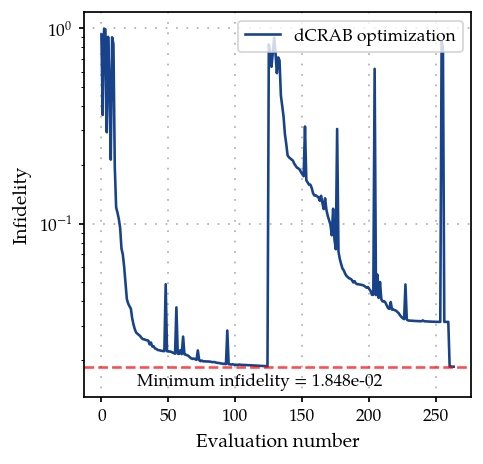
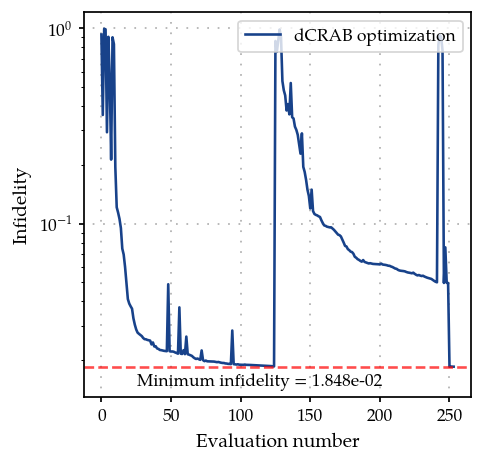
Fixed docs Example 08C

diff --git a/docs/notebooks/08C_Bosonic_grape_with_smooth_pulses.rst b/docs/notebooks/08C_Bosonic_grape_with_smooth_pulses.rst
@@ -390,7 +390,7 @@ can later use to plot the infidelity vs function evaluation.
 
 .. parsed-literal::
 
-    Logging directory = /tmp/tmpegrxx8m4
+    Logging directory = /tmp/tmp1qve13ga
 
 
 .. code:: ipython3
@@ -434,18 +434,18 @@ can later use to plot the infidelity vs function evaluation.
     ==== Starting super-iteration 1 ====
     *** Current lowest infidelity =  0.019 ***
     * Current no. of parameters = 50
-    Iteration number = 100 	  Infidelity  = 7.398e-01
-    Iteration number = 120 	  Infidelity  = 1.667e-01
-    Iteration number = 140 	  Infidelity  = 5.887e-02
-    Iteration number = 160 	  Infidelity  = 4.302e-02
-    Iteration number = 180 	  Infidelity  = 3.177e-02
+    Iteration number = 100 	  Infidelity  = 7.586e-01
+    Iteration number = 120 	  Infidelity  = 1.109e-01
+    Iteration number = 140 	  Infidelity  = 7.685e-02
+    Iteration number = 160 	  Infidelity  = 6.197e-02
+    Iteration number = 180 	  Infidelity  = 5.651e-02
     
     
     ==== Max iteration before a super-iteration reached ====
     ==== Starting super-iteration 2 ====
     *** Current lowest infidelity =  0.019 ***
     * Current no. of parameters = 74
-    Iteration number = 200 	  Infidelity  = 7.937e-01
+    Iteration number = 200 	  Infidelity  = 7.714e-01
 
 
 .. parsed-literal::
@@ -835,17 +835,18 @@ Redefine the optmap and the optmizer and rerun the optimization
 
 .. parsed-literal::
 
-    Logging directory = /tmp/tmp154t4gmo
+    Logging directory = /tmp/tmppoaajj37
 
 
 .. parsed-literal::
 
-    Implicitly cleaning up <TemporaryDirectory '/tmp/tmpegrxx8m4'>
+    Implicitly cleaning up <TemporaryDirectory '/tmp/tmp1qve13ga'>
 
 
 .. code:: ipython3
 
     opt.optimise()
+    opt.set_parameters(opt.best_params)
 
 
 .. parsed-literal::
@@ -987,21 +988,6 @@ Redefine the optmap and the optmizer and rerun the optimization
 .. parsed-literal::
 
     Setting parameters to the best values.
-
-
-
-
-.. parsed-literal::
-
-    {'status': 2, 'value': 0.03317484131350723, 'iterations': 70, 'message': '`callback` raised `StopIteration`.'}
-
-
-
-Set parameters to current best values
-
-.. code:: ipython3
-
-    opt.set_parameters(opt.best_params)
 
 
 
@@ -1157,28 +1143,6 @@ Set parameters to current best values
 
 
 
-And plot the optimised pulses and dyanmics
-
-.. code:: ipython3
-
-    plot_states_and_fock_number()
-
-
-
-.. image:: 08C_Bosonic_grape_with_smooth_pulses_files/08C_Bosonic_grape_with_smooth_pulses_49_0.png
-
-
-Also, verifying the dynamics with the higher truncation
-
-.. code:: ipython3
-
-    plot_states_and_fock_number(1)
-
-
-
-.. image:: 08C_Bosonic_grape_with_smooth_pulses_files/08C_Bosonic_grape_with_smooth_pulses_51_0.png
-
-
 And the new fidelities are
 
 .. code:: ipython3
@@ -1196,6 +1160,28 @@ And the new fidelities are
 Here the dynamics and the fidelities are very similar to one another,
 indicating no truncation artifacts.
 
+Lets plot the optimised pulses and dyanmics
+
+.. code:: ipython3
+
+    plot_states_and_fock_number()
+
+
+
+.. image:: 08C_Bosonic_grape_with_smooth_pulses_files/08C_Bosonic_grape_with_smooth_pulses_50_0.png
+
+
+And verify the dynamics with the higher truncation looks the same
+
+.. code:: ipython3
+
+    plot_states_and_fock_number(1)
+
+
+
+.. image:: 08C_Bosonic_grape_with_smooth_pulses_files/08C_Bosonic_grape_with_smooth_pulses_52_0.png
+
+
 Finally, lets plot the variation of infidelity with evaluation number.
 
 .. code:: ipython3
@@ -1206,7 +1192,7 @@ Finally, lets plot the variation of infidelity with evaluation number.
 
 
 
-.. image:: 08C_Bosonic_grape_with_smooth_pulses_files/08C_Bosonic_grape_with_smooth_pulses_56_0.png
+.. image:: 08C_Bosonic_grape_with_smooth_pulses_files/08C_Bosonic_grape_with_smooth_pulses_54_0.png
 
 
 The sharp rise infidelity represents the beginning of a super-iteration
